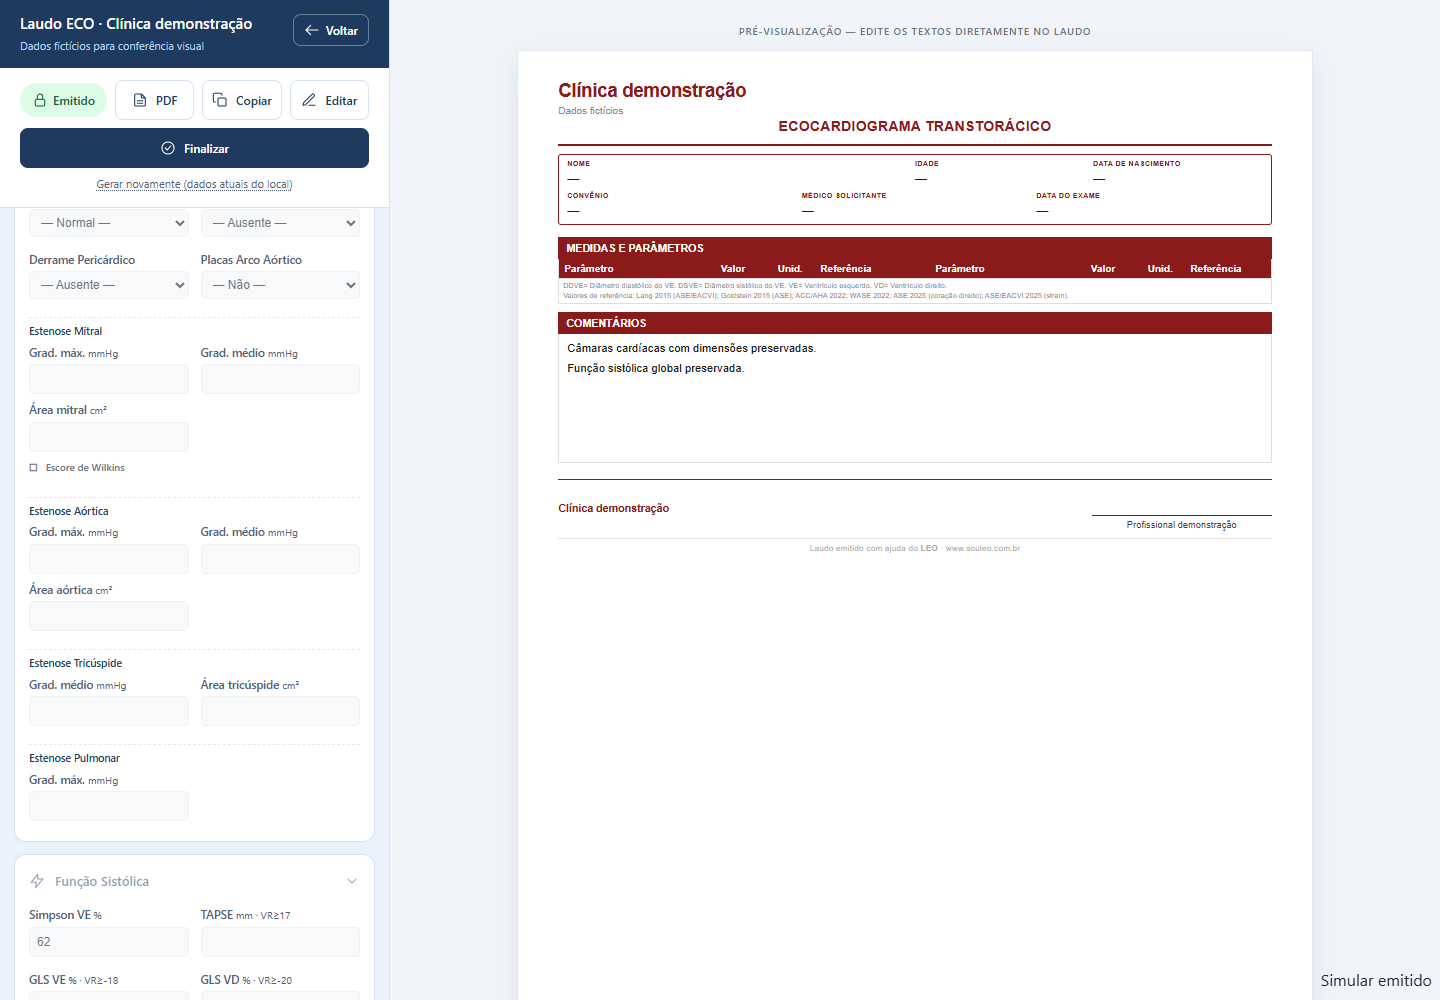
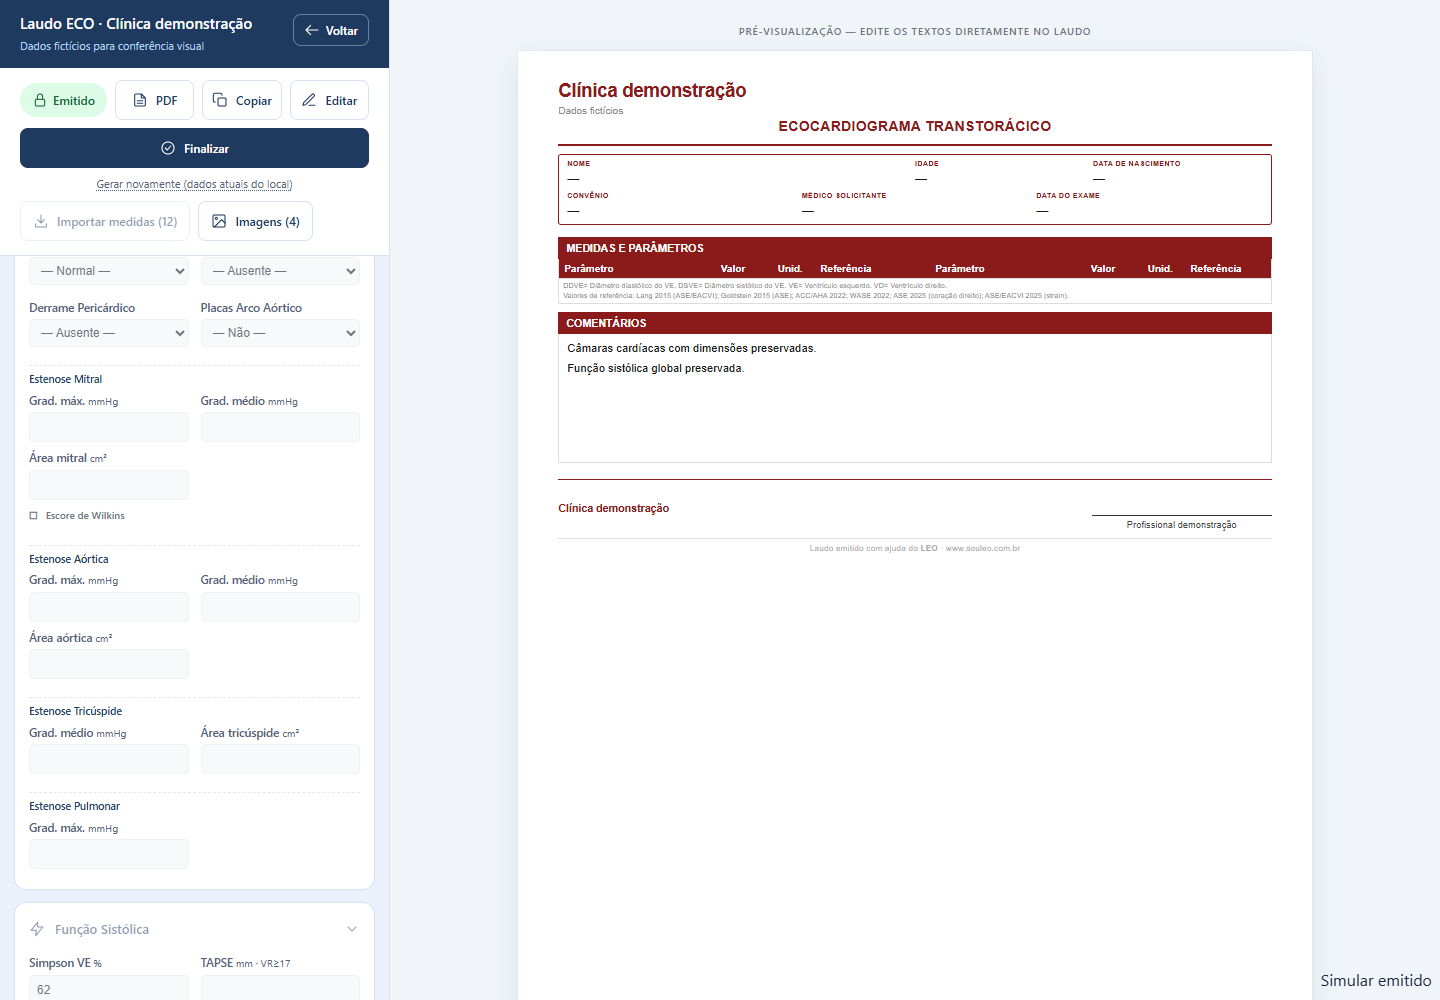
feat(laudo): fase 1 — Imagens e Importar medidas visíveis no ECO emitido; galeria só leitura no emitido
Spec: docs/superpowers/specs/2026-10-11-imagens-e-sr-em-todo-laudo-design.md (aprovada pelo Sergio,
planejada pela tríade). Importar/Imagens saem do ternário do estado e viram bloco de dado do exame
(3ª linha no emitido, opção A). Importar fica disabled no emitido E ganha guarda nos handlers
(handleImportarDicom/handleConfirmarImportSr) — a importação escreve nos inputs por código.
DicomGallery permitirSelecao={!emitido}: o PDF assinado é o documento; Editar → novo laudo → nova seleção.
CSS morto .laudo-locked #modo-edicao removido. Pins no laudo-trava-emitido (14/14); visual eco 3/3.

diff --git a/src/components/laudo/SidebarLaudo.tsx b/src/components/laudo/SidebarLaudo.tsx
@@ -205,62 +205,12 @@ export default function SidebarLaudo({ clinicaNome, medicoInfo, onVoltar, onSalv
       {/* ═══ CABEÇALHO (navy) + COMANDOS — spec 2026-10-11-coluna-laudo-unificada ═══ */}
       <CabecalhoLaudo titulo="Laudo ECO" clinicaNome={clinicaNome} medicoInfo={medicoInfo} onVoltar={onVoltar} />
       <div className="laudo-command-line">
+        {/* Bloco de ESTADO: rascunho = Salvar/Emitir + Limpar; emitido = ModoEmitido
+            (selo + PDF/Copiar/Editar + Finalizar). */}
         {emitido ? (
           modoEmitido
         ) : (
           <div id="modo-edicao" className="contents">
-            {ortancAtivo && onImportarDicom && (() => {
-              // Botão habilita quando Wader já populou `medidasDicom` (totalMedidasDicom > 0).
-              // Quando ainda não há medidas, mostramos o botão cinza/desabilitado
-              // com tooltip explicando — assim o médico sabe que a feature existe.
-              const temMedidas = (totalMedidasDicom ?? 0) > 0;
-              return (
-                <button
-                  onClick={onImportarDicom}
-                  disabled={dicomImportado || !temMedidas}
-                  title={
-                    dicomImportado
-                      ? 'Medidas já importadas'
-                      : temMedidas
-                        ? `Importar ${totalMedidasDicom} medidas do Vivid (DICOM SR) — abre modal pra validar antes`
-                        : 'Sem medidas DICOM ainda — aguarde Wader processar o exame'
-                  }
-                  className={`laudo-command-secondary ${
-                    dicomImportado
-                      ? 'bg-green-100 text-green-700'
-                      : temMedidas
-                        ? ''
-                        : 'bg-gray-200 text-gray-500'
-                  }`}>
-                  <EditorIcon name="download" />
-                  {dicomImportado ? 'Importado' : temMedidas ? `Importar medidas (${totalMedidasDicom})` : 'Importar medidas'}
-                </button>
-              );
-            })()}
-            {/* Botão "🖼 Imagens (N)" — abre <DicomGallery /> com previews JPG.
-                Adicionado em 14/05/2026 (antes médico via só a contagem no
-                Worklist sem como abrir as imagens dentro do laudo). */}
-            {onAbrirGaleria && (() => {
-              const temImagens = (totalImagensDicom ?? 0) > 0;
-              return (
-                <button
-                  onClick={onAbrirGaleria}
-                  disabled={!temImagens}
-                  title={
-                    temImagens
-                      ? `Ver ${totalImagensDicom} imagens DICOM do exame`
-                      : 'Sem imagens DICOM ainda — aguarde Wader processar'
-                  }
-                  className={`laudo-command-secondary ${
-                    temImagens
-                      ? ''
-                      : 'bg-gray-200 text-gray-500'
-                  }`}>
-                  <EditorIcon name="image" />
-                  {temImagens ? `Imagens (${totalImagensDicom})` : 'Imagens'}
-                </button>
-              );
-            })()}
             <button onClick={onSalvarEmitir} className="laudo-command-primary">
               <EditorIcon name="save" /> Salvar / Emitir
             </button>
@@ -270,6 +220,58 @@ export default function SidebarLaudo({ clinicaNome, medicoInfo, onVoltar, onSalv
             </button>
           </div>
         )}
+        {/* Bloco de DADOS DO EXAME (spec 2026-10-11-imagens-e-sr-em-todo-laudo):
+            Importar medidas e Imagens existem em rascunho E emitido — são dado
+            do exame, não ação de edição. No emitido caem na 3ª linha, abaixo do
+            Finalizar (opção A do Sergio). Importar fica DESABILITADO no emitido:
+            a importação escreve nos inputs por código e passaria por cima da
+            trava visual — o handler na page tem a guarda de verdade. */}
+        {ortancAtivo && onImportarDicom && (() => {
+          const temMedidas = (totalMedidasDicom ?? 0) > 0;
+          return (
+            <button
+              onClick={onImportarDicom}
+              disabled={emitido || dicomImportado || !temMedidas}
+              title={
+                emitido
+                  ? 'Laudo emitido — clique em Editar para importar e reemitir'
+                  : dicomImportado
+                    ? 'Medidas já importadas'
+                    : temMedidas
+                      ? `Importar ${totalMedidasDicom} medidas do Vivid (DICOM SR) — abre modal pra validar antes`
+                      : 'Sem medidas DICOM ainda — aguarde Wader processar o exame'
+              }
+              className={`laudo-command-secondary ${
+                dicomImportado
+                  ? 'bg-green-100 text-green-700'
+                  : temMedidas
+                    ? ''
+                    : 'bg-gray-200 text-gray-500'
+              }`}>
+              <EditorIcon name="download" />
+              {dicomImportado ? 'Importado' : temMedidas ? `Importar medidas (${totalMedidasDicom})` : 'Importar medidas'}
+            </button>
+          );
+        })()}
+        {/* Imagens (N) — abre <DicomGallery />. No emitido a galeria é só
+            leitura (a page decide via permitirSelecao). */}
+        {onAbrirGaleria && (() => {
+          const temImagens = (totalImagensDicom ?? 0) > 0;
+          return (
+            <button
+              onClick={onAbrirGaleria}
+              disabled={!temImagens}
+              title={
+                temImagens
+                  ? `Ver ${totalImagensDicom} imagens DICOM do exame`
+                  : 'Sem imagens DICOM ainda — aguarde Wader processar'
+              }
+              className={`laudo-command-secondary ${temImagens ? '' : 'bg-gray-200 text-gray-500'}`}>
+              <EditorIcon name="image" />
+              {temImagens ? `Imagens (${totalImagensDicom})` : 'Imagens'}
+            </button>
+          );
+        })()}
       </div>
 
       {/* ═══ ÁREA SCROLLÁVEL ═══ */}

diff --git a/src/app/laudo/[id]/page.tsx b/src/app/laudo/[id]/page.tsx
@@ -1313,6 +1313,10 @@ function LaudoPageInner() {
    */
   function handleImportarDicom() {
     if (!workspace?.id) return;
+    // Spec 2026-10-11-imagens-e-sr: laudo emitido não importa — o botão já
+    // vem disabled, mas a guarda de verdade é esta (Codex: a importação
+    // escreve nos inputs por código, a trava CSS/disabled não a alcança).
+    if (emitido) return;
     // Schema antigo abre o modal MESMO com 0 importáveis — é lá que fica o
     // botão de pedir reprocesso ao Wader (S4-T12). Sem esta exceção o alerta
     // abaixo era o fim da linha pros exames legados.
@@ -1379,6 +1383,7 @@ function LaudoPageInner() {
    */
   function handleConfirmarImportSr(selecionados: InputImport[]) {
     if (selecionados.length === 0) return;
+    if (emitido) { setSrImportOpen(false); return; } // mesma guarda — modal aberto e laudo reemitido no meio
     let preenchidos = 0;
     // Medidas que o médico marcou mas não têm input no DOM (S4-T15 fix D4):
     // mapeamento aponta pra um campo que não existe nesta tela. Antes só ia
@@ -2230,9 +2235,12 @@ function LaudoPageInner() {
         exameId={exameId}
         pacienteNome={exame?.pacienteNome as string | undefined}
         tipoExame={exame?.tipoExame as string | undefined}
-        permitirSelecao
+        // Emitido = só leitura (decisão Sergio 11/10): o PDF assinado é o
+        // documento; trocar a seleção aqui gravaria outra verdade no banco.
+        // Editar → novo laudo → nova seleção.
+        permitirSelecao={!emitido}
         selecionadas={imagensSelecionadasPdf}
-        onToggleSelecao={handleToggleSelecaoImagem}
+        onToggleSelecao={emitido ? undefined : handleToggleSelecaoImagem}
       />
       {/* CSS global */}
       <style jsx global>{`
@@ -2327,7 +2335,6 @@ function LaudoPageInner() {
            trava isso comparando as duas, não repetir um id só de um lado. */
         .laudo-locked #laudo-sidebar input:not(#convenio):not(#solicitante):not(#nome):not(#dtnasc):not(#dtexame),.laudo-locked #laudo-sidebar select:not(#convenio):not(#solicitante):not(#nome):not(#dtnasc):not(#dtexame),.laudo-locked #laudo-sidebar textarea:not(#convenio):not(#solicitante):not(#nome):not(#dtnasc):not(#dtexame){pointer-events:none;opacity:.6;background:#f1f5f9;}
         .laudo-locked #laudo-sidebar .section-btn{pointer-events:none;opacity:.5;}
-        .laudo-locked #modo-edicao{display:none;}
       `}</style>
     </div>
   );

diff --git a/docs/superpowers/specs/2026-10-11-imagens-e-sr-em-todo-laudo-design.md b/docs/superpowers/specs/2026-10-11-imagens-e-sr-em-todo-laudo-design.md
@@ -1,0 +1,48 @@
+# Imagens e SR em todo laudo — design aprovado 11/10/2026
+
+Aprovado por Sergio após planejamento pela tríade (Codex riscos · Ruflo arquitetura · Ponytail mínimo).
+Complementa `2026-10-11-coluna-laudo-unificada-design.md`.
+
+## Problema
+
+1. Laudo ECO **emitido** não mostra "Imagens (N)" nem "Importar medidas (N)": a fileira troca o
+   bloco inteiro de edição pelo bloco do emitido, e os dois botões de *dado do exame* foram junto.
+   Pré-existente, não regressão da coluna unificada.
+2. Laudo de **texto** (carótidas etc.) não tem nenhum acesso às imagens DICOM, nem no PDF.
+
+## Decisões do Sergio
+
+- **A.** No ECO emitido, Importar e Imagens aparecem numa **3ª linha abaixo do Finalizar**; as duas
+  linhas aprovadas (selo + PDF + Copiar + Editar / Finalizar) não mudam.
+- **Importar medidas** no emitido: visível com a contagem, **desabilitado**, dica "Clique em Editar
+  para importar e reemitir". Guarda explícita no handler (`if (emitido) return`), não só CSS.
+- **Galeria no emitido é só leitura**: ver e ampliar, sem trocar a seleção do PDF. O PDF emitido é o
+  documento; qualquer edição passa por Editar → novo laudo, com nova seleção de imagens.
+- **Laudo de texto segue o mesmo padrão de emissão do ECO**: botão Imagens em rascunho e emitido,
+  galeria com seleção no rascunho (só leitura no emitido), popup de emissão com "Incluir imagens
+  DICOM", páginas de imagem no PDF, seleção persistida como no ECO.
+
+## Fase 1 — botões e galeria
+
+| Arquivo | Mudança |
+|---|---|
+| `SidebarLaudo.tsx` | Importar/Imagens saem do ternário `emitido ? modoEmitido : modo-edicao` e ficam sempre renderizados, depois do bloco de estado (3ª linha no emitido). Importar `disabled` também quando `emitido`. |
+| `laudo/[id]/page.tsx` | Guarda `emitido` em `handleImportarDicom`/confirmação do SR import; `DicomGallery permitirSelecao={!emitido}` e sem `onToggleSelecao` no emitido; remove CSS morto `.laudo-locked #modo-edicao`. |
+| `laudo-texto/[id]/page.tsx` | Botão Imagens (N) na fileira + `DicomGallery` (fase 1 só leitura). |
+| Testes | Visual: ECO emitido com Imagens habilitado e Importar desabilitado; carótidas com Imagens. Unit (laudo-trava-emitido): guarda do import presente. |
+
+## Fase 2 — emissão do texto igual ao ECO
+
+| Arquivo | Mudança |
+|---|---|
+| `src/hooks/useImagensExameDicom.ts` (novo) | Estado de seleção/inclusão, load do Firestore, toggle, montagem das páginas (`renderPaginas` + URLs assinadas). ECO e texto consomem. |
+| `laudo-texto/[id]/page.tsx` | `PopupSalvarEmitir` no lugar do `confirm()`; `incluirImagensNoPdf` + `imagensSelecionadasPdf` nos `dadosFinais`; galeria com seleção no rascunho. |
+| `src/lib/pdf-texto.ts` | `htmlPosTabela?: string` passthrough para `montarPdfMoldura` (moldura intocada). |
+| `src/lib/emitir-admin.ts` | `imagensSelecionadasPdf` entra na whitelist de `dadosFinais`, validada: subconjunto de `exame.imagensDicom`, sem duplicata, limite. Teste-pin atualizado. |
+| `firestore.rules` | Exame emitido: cliente não altera `imagensSelecionadasPdf` (só servidor, dentro da emissão). Teste com payload real em `tests/rules/fixtures.mjs`. |
+| Testes | Unit do PDF do texto com 0/1/8/9 imagens; API de emissão/reemissão gravando lista + flag + PDF + cobrança única; rules. |
+
+## Fora do escopo
+
+`ModoEmitido` (PDF/Copiar/Editar/Finalizar) no laudo de texto emitido: não pedido. `pdf-moldura.ts`
+intocado. Motor, trava do emitido e créditos inalterados. `onSnapshot` no texto: não (ceiling marcado).
